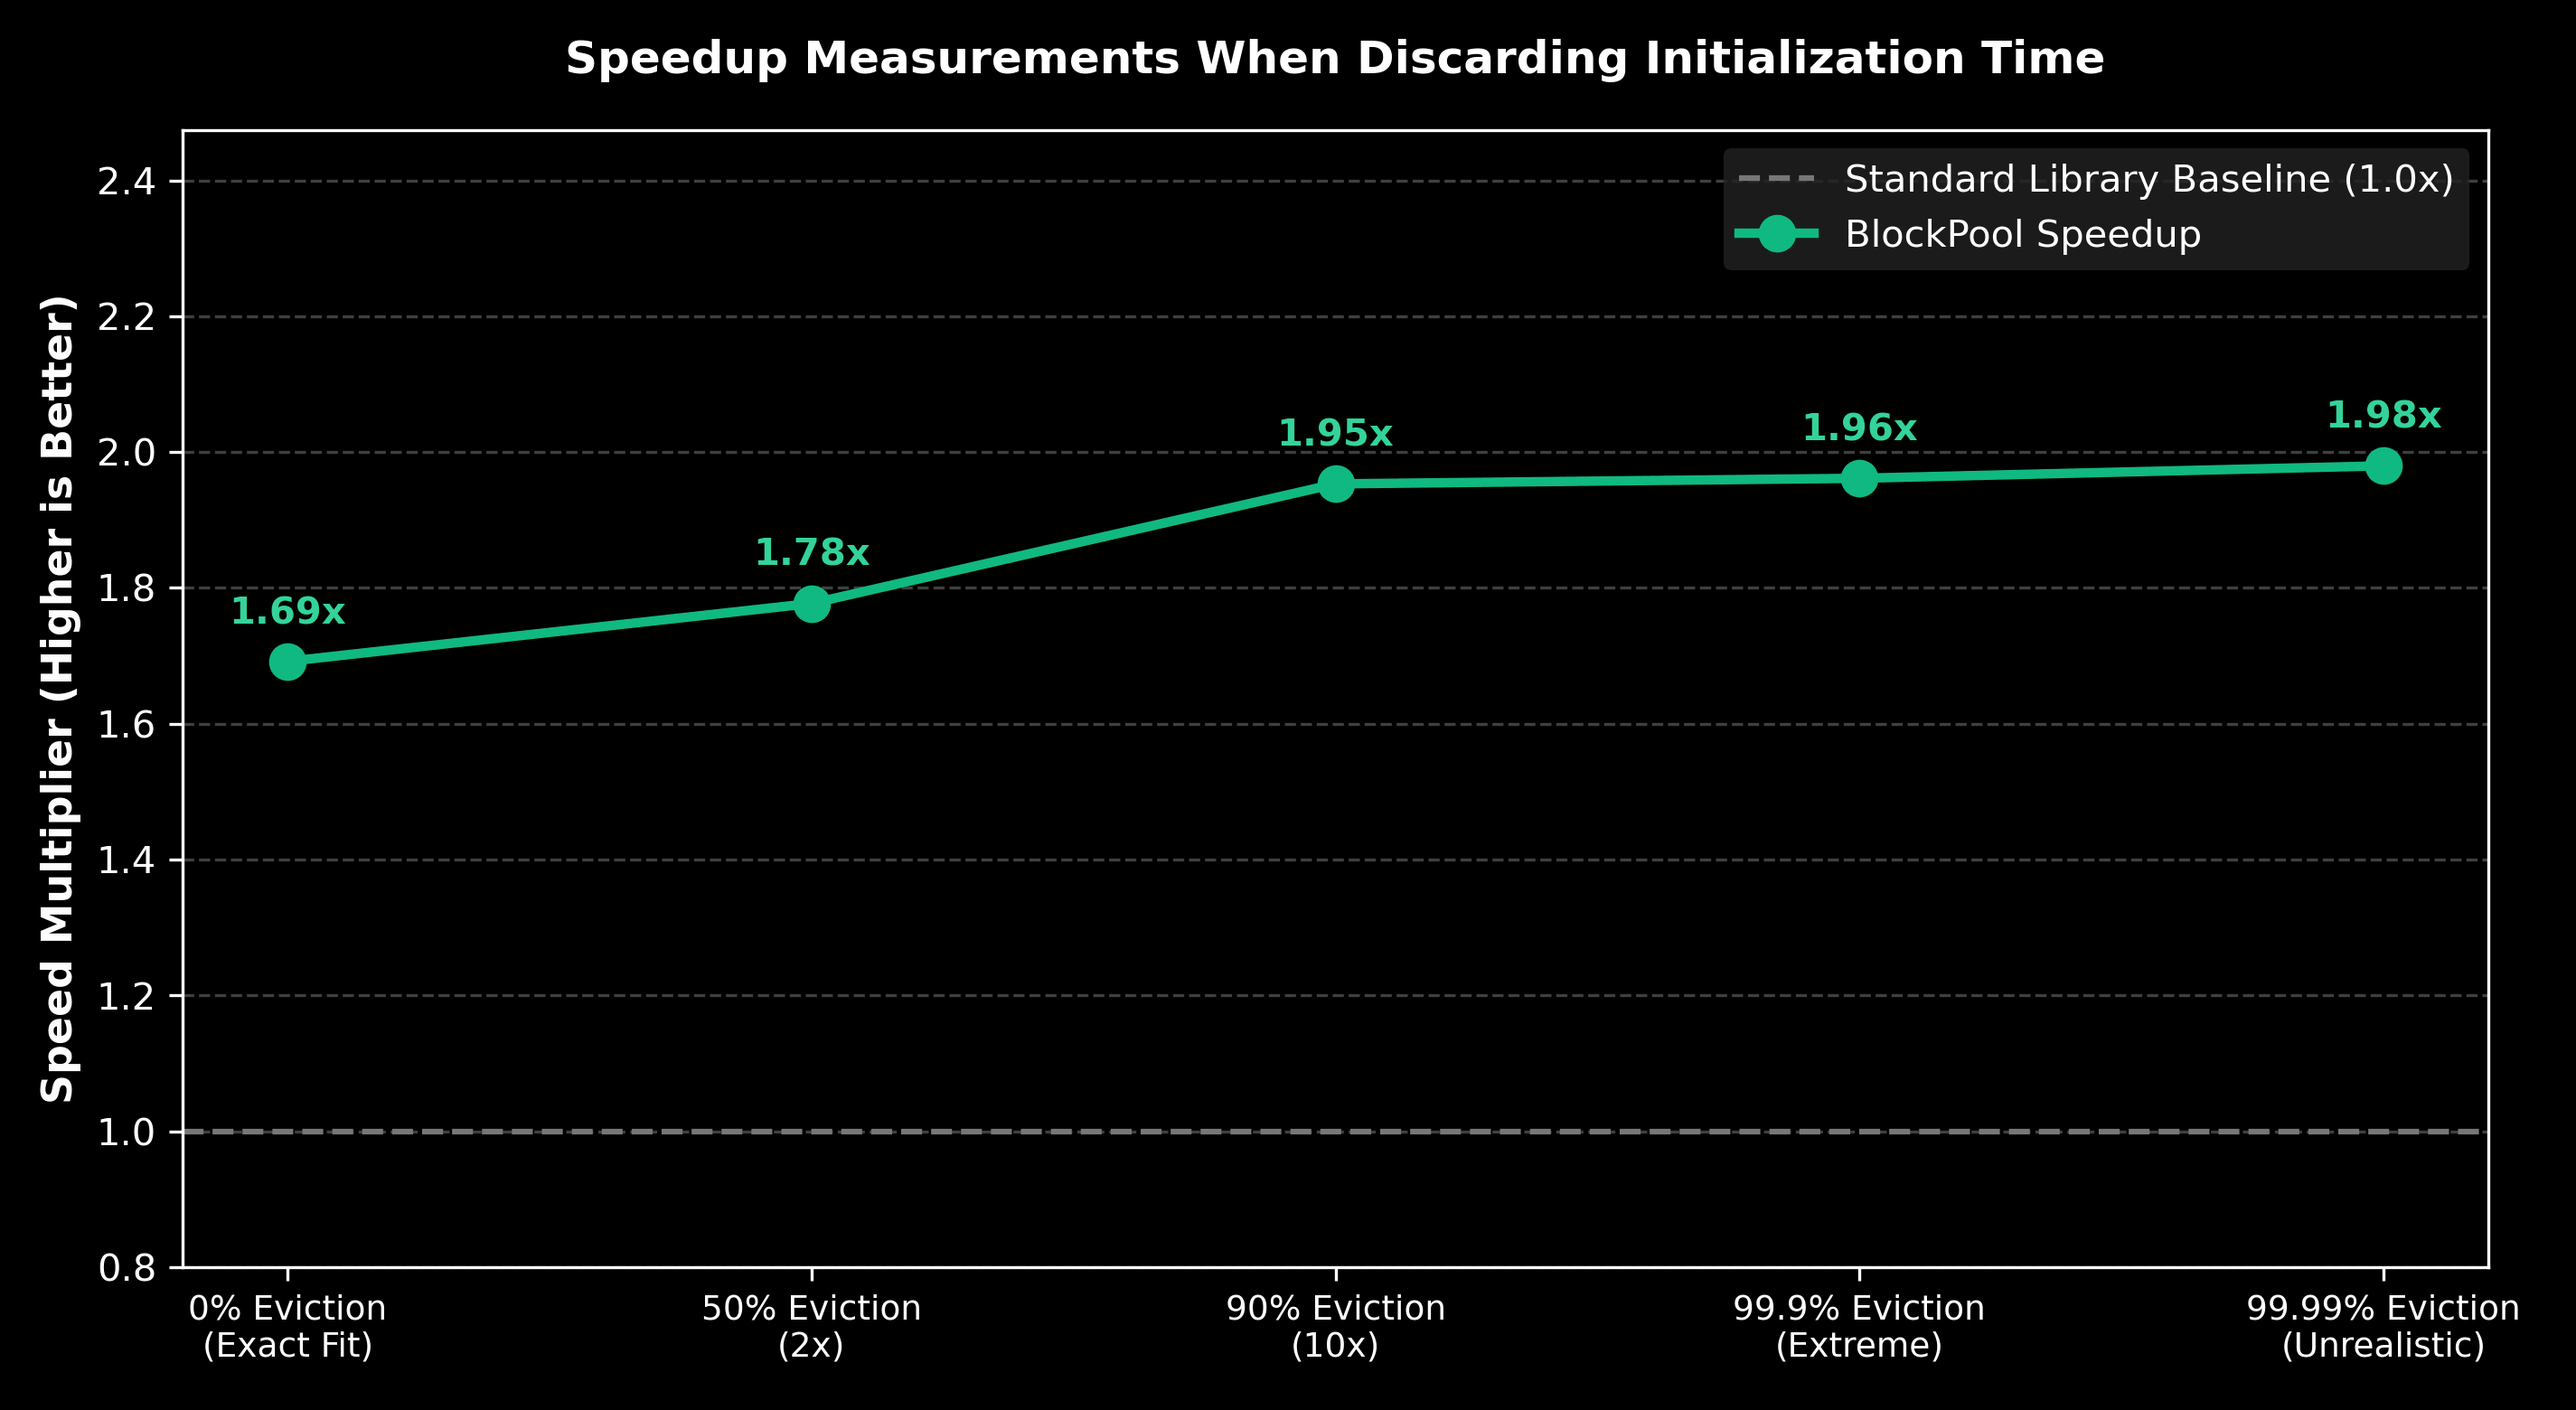
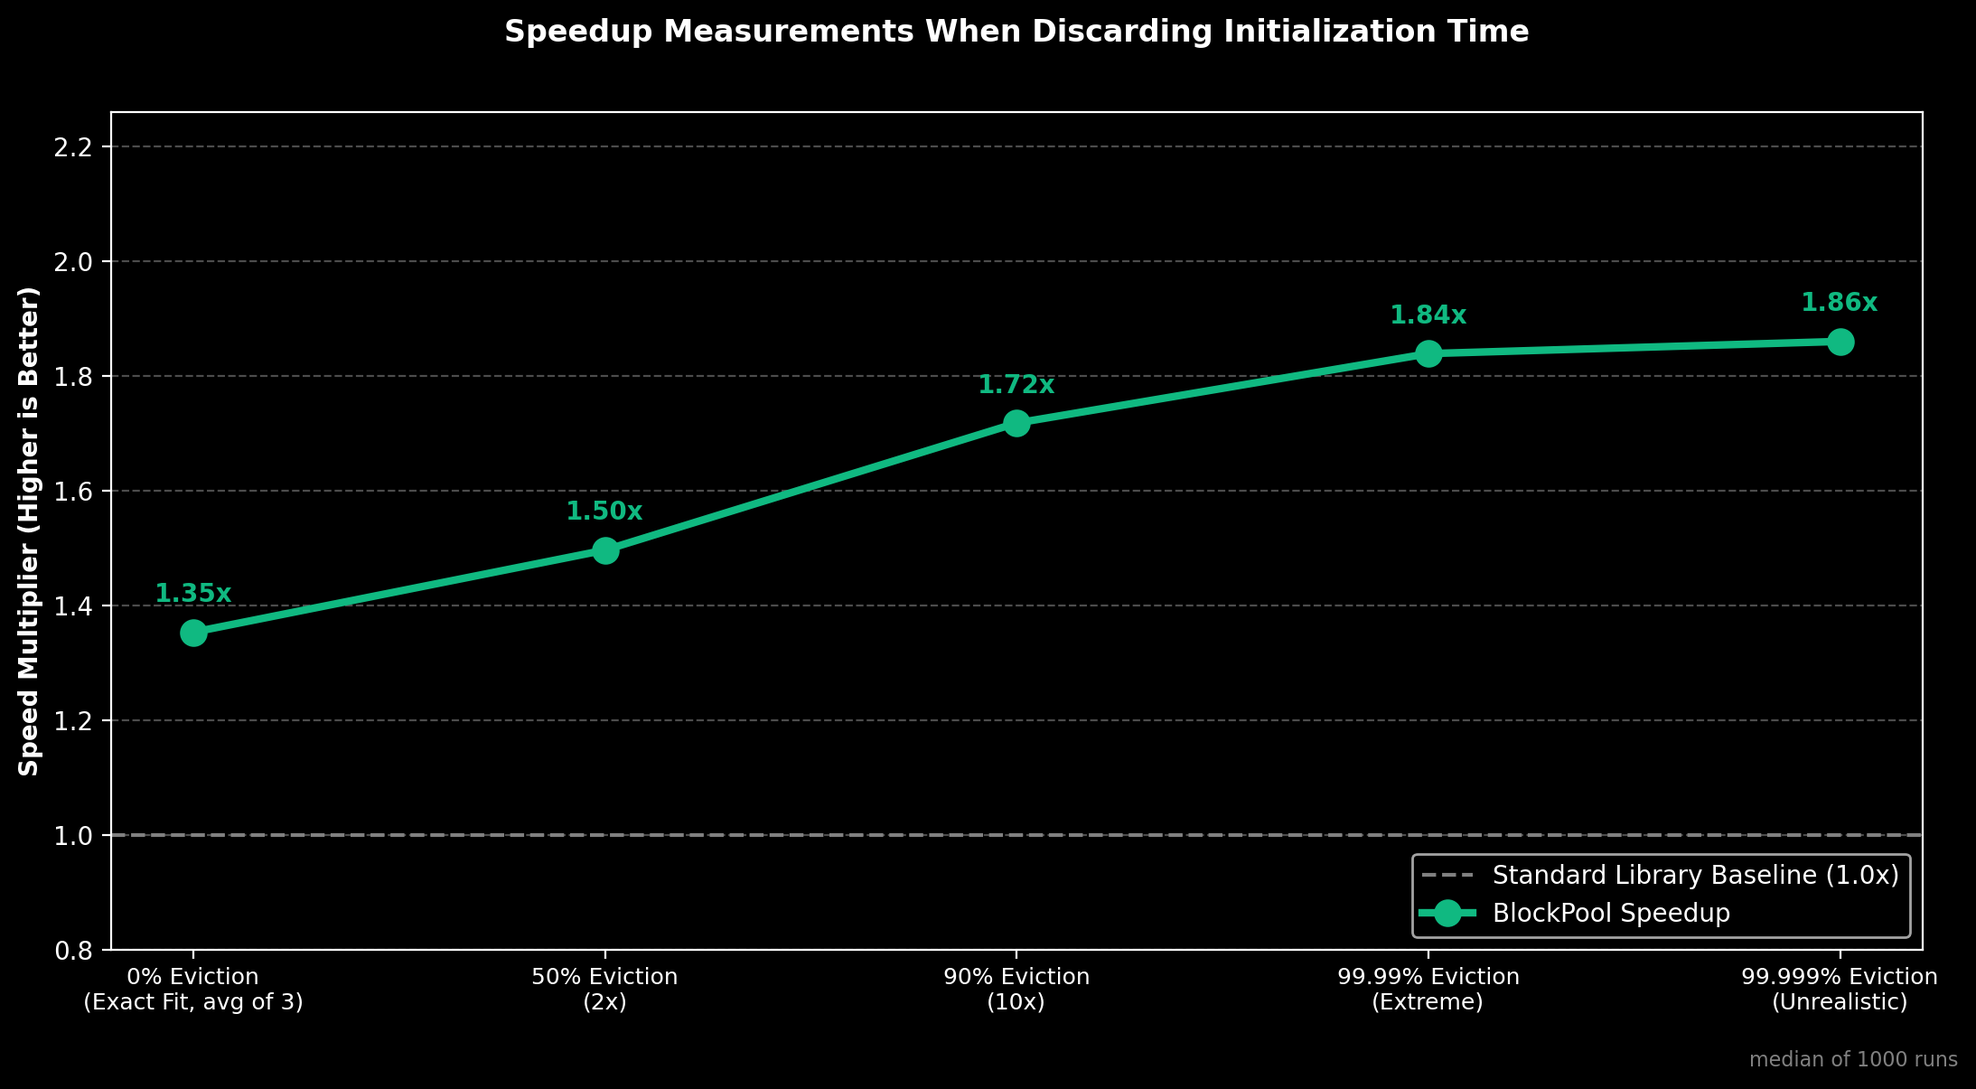
refactor: make the worklload simulator receive desired get ratio as an arguemnt, change code accordingly
this means i can benchmark for different ratios, and not jsut the 50 50 split i had before.

Changed region(s): [[0.0, 0.0921, 0.995, 0.9826], [0.2176, 0.0, 0.8395, 0.0614], [0.1866, 0.522, 0.2487, 0.5527]]

diff --git a/benchmarks/simulated_workload_bench.cpp b/benchmarks/simulated_workload_bench.cpp
@@ -16,9 +16,9 @@ public:
         int val;
     };
 
-    explicit WorkloadGenerator(int capacity)
+    explicit WorkloadGenerator(int capacity, double getRatio)
         : gen(rd()),
-          boolDist(0.5),
+          boolDist(getRatio),
           keyDist(0, 2 * capacity - 1){}
 
     Request next(){
@@ -57,12 +57,15 @@ void populateCache(CacheType& cache, int itemCount){
     }
 }
 
-int main(){
+int main(int argc, char* argv[]){
     static constexpr int S_CAPACITY = 1'000'000;
     static constexpr int S_NUM_OPS  = 1'000'000;
 
+    double getRatio = (argc > 1) ? std::stod(argv[1]) : 0.5;
+    getRatio = (getRatio < 0.0 || getRatio > 1.0) ? 0.5 : getRatio;
+
     std::cout << "Generating " << S_NUM_OPS << " requests...\n";
-    WorkloadGenerator workload(S_CAPACITY);
+    WorkloadGenerator workload(S_CAPACITY, getRatio);
     std::vector<WorkloadGenerator::Request> requests;
     requests.reserve(S_NUM_OPS);
 
